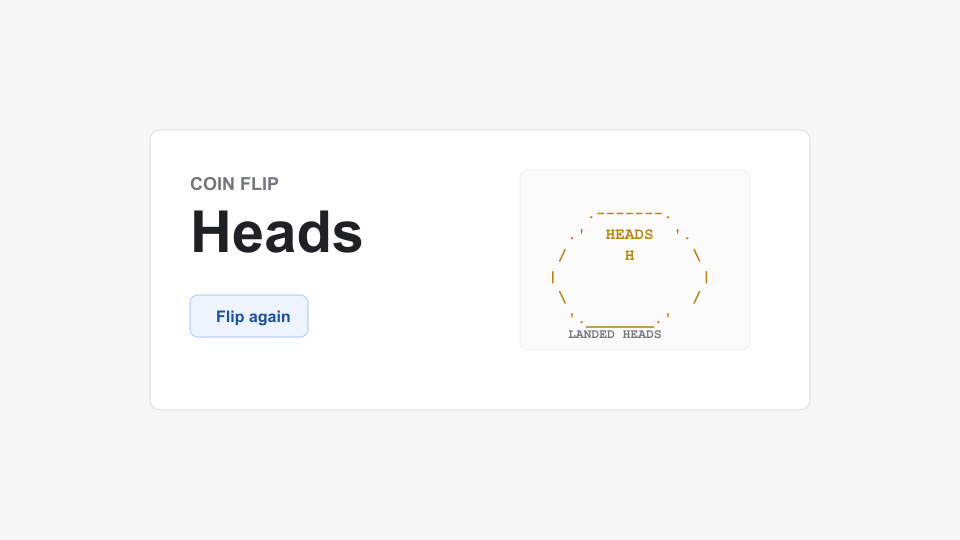
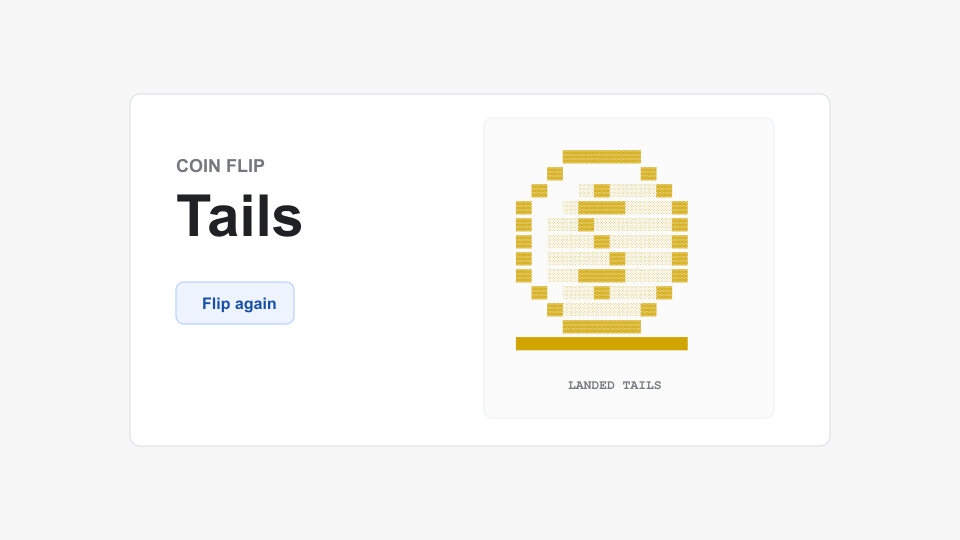
fix(plugins): improve coinflip ASCII art

diff --git a/plugins/coinflip-slot/script.js b/plugins/coinflip-slot/script.js
@@ -3,36 +3,60 @@
 
   const ART = {
     heads: [
-      "    .-------.    ",
-      "  .'  HEADS  '.  ",
-      " /      H      \\ ",
-      "|               |",
-      " \\             / ",
-      "  '._______.'  ",
+      "      ▓▓▓▓▓▓▓▓▓▓      ",
+      "    ▓▓          ▓▓    ",
+      "  ▓▓  ░░▓▓  ▓▓░░  ▓▓  ",
+      "▓▓    ░░▓▓  ▓▓░░    ▓▓",
+      "▓▓  ░░░░▓▓  ▓▓░░░░  ▓▓",
+      "▓▓  ░░░░▓▓▓▓▓▓░░░░  ▓▓",
+      "▓▓  ░░░░▓▓  ▓▓░░░░  ▓▓",
+      "▓▓  ░░░░▓▓  ▓▓░░░░  ▓▓",
+      "  ▓▓  ░░▓▓  ▓▓░░  ▓▓  ",
+      "    ▓▓░░      ░░▓▓    ",
+      "      ▓▓▓▓▓▓▓▓▓▓      ",
+      "██████████████████████",
     ].join("\n"),
     tails: [
-      "    .-------.    ",
-      "  .'  TAILS  '.  ",
-      " /      T      \\ ",
-      "|               |",
-      " \\             / ",
-      "  '._______.'  ",
+      "      ▓▓▓▓▓▓▓▓▓▓      ",
+      "    ▓▓          ▓▓    ",
+      "  ▓▓    ░░▓▓░░░░░░▓▓  ",
+      "▓▓    ░░▓▓▓▓▓▓░░░░░░▓▓",
+      "▓▓  ░░░░▓▓░░░░░░░░░░▓▓",
+      "▓▓  ░░░░░░▓▓░░░░░░░░▓▓",
+      "▓▓  ░░░░░░░░▓▓░░░░░░▓▓",
+      "▓▓  ░░░░▓▓▓▓▓▓░░░░░░▓▓",
+      "  ▓▓  ░░░░▓▓░░░░░░▓▓  ",
+      "    ▓▓░░░░░░░░░░▓▓    ",
+      "      ▓▓▓▓▓▓▓▓▓▓      ",
+      "██████████████████████",
     ].join("\n"),
     edge: [
-      "       ||       ",
-      "       ||       ",
-      "      /||\\      ",
-      "      \\||/      ",
-      "       ||       ",
-      "       ||       ",
+      "          ▓▓          ",
+      "          ▓▓          ",
+      "          ▓▓          ",
+      "          ██          ",
+      "          ██          ",
+      "          ██          ",
+      "          ██          ",
+      "          ██          ",
+      "          ▓▓          ",
+      "          ▓▓          ",
+      "          ▓▓          ",
+      "██████████████████████",
     ].join("\n"),
     thin: [
-      "        |       ",
-      "        |       ",
-      "        |       ",
-      "        |       ",
-      "        |       ",
-      "        |       ",
+      "           ░          ",
+      "           ▒          ",
+      "           ▓          ",
+      "           █          ",
+      "           █          ",
+      "           █          ",
+      "           █          ",
+      "           █          ",
+      "           ▓          ",
+      "           ▒          ",
+      "           ░          ",
+      "██████████████████████",
     ].join("\n"),
   };
 

diff --git a/plugins/coinflip-slot/index.js b/plugins/coinflip-slot/index.js
@@ -8,20 +8,32 @@ const QUERY_PATTERNS = [
 
 const COIN_ART = {
   heads: [
-    "    .-------.    ",
-    "  .'  HEADS  '.  ",
-    " /      H      \\ ",
-    "|               |",
-    " \\             / ",
-    "  '._______.'  ",
+    "      ▓▓▓▓▓▓▓▓▓▓      ",
+    "    ▓▓          ▓▓    ",
+    "  ▓▓  ░░▓▓  ▓▓░░  ▓▓  ",
+    "▓▓    ░░▓▓  ▓▓░░    ▓▓",
+    "▓▓  ░░░░▓▓  ▓▓░░░░  ▓▓",
+    "▓▓  ░░░░▓▓▓▓▓▓░░░░  ▓▓",
+    "▓▓  ░░░░▓▓  ▓▓░░░░  ▓▓",
+    "▓▓  ░░░░▓▓  ▓▓░░░░  ▓▓",
+    "  ▓▓  ░░▓▓  ▓▓░░  ▓▓  ",
+    "    ▓▓░░      ░░▓▓    ",
+    "      ▓▓▓▓▓▓▓▓▓▓      ",
+    "██████████████████████",
   ].join("\n"),
   tails: [
-    "    .-------.    ",
-    "  .'  TAILS  '.  ",
-    " /      T      \\ ",
-    "|               |",
-    " \\             / ",
-    "  '._______.'  ",
+    "      ▓▓▓▓▓▓▓▓▓▓      ",
+    "    ▓▓          ▓▓    ",
+    "  ▓▓    ░░▓▓░░░░░░▓▓  ",
+    "▓▓    ░░▓▓▓▓▓▓░░░░░░▓▓",
+    "▓▓  ░░░░▓▓░░░░░░░░░░▓▓",
+    "▓▓  ░░░░░░▓▓░░░░░░░░▓▓",
+    "▓▓  ░░░░░░░░▓▓░░░░░░▓▓",
+    "▓▓  ░░░░▓▓▓▓▓▓░░░░░░▓▓",
+    "  ▓▓  ░░░░▓▓░░░░░░▓▓  ",
+    "    ▓▓░░░░░░░░░░▓▓    ",
+    "      ▓▓▓▓▓▓▓▓▓▓      ",
+    "██████████████████████",
   ].join("\n"),
 };
 

diff --git a/plugins/coinflip-slot/style.css b/plugins/coinflip-slot/style.css
@@ -82,7 +82,7 @@
     display: grid;
     justify-items: center;
     gap: 8px;
-    min-width: 18ch;
+    min-width: 28ch;
     padding: 12px 14px;
     border-radius: 8px;
     background:
@@ -96,8 +96,8 @@
 
 .coinflip-slot__coin {
     margin: 0;
-    min-width: 18ch;
-    min-height: 6.9em;
+    min-width: 26ch;
+    min-height: 13.8em;
     color: color-mix(in srgb, var(--warning, #fbbc04) 72%, currentColor);
     font-family:
         ui-monospace,
@@ -107,7 +107,7 @@
         Consolas,
         "Liberation Mono",
         monospace;
-    font-size: 0.84rem;
+    font-size: 0.78rem;
     font-weight: 700;
     line-height: 1.15;
     text-align: left;
@@ -163,7 +163,7 @@
     }
 
     .coinflip-slot__coin {
-        font-size: 0.72rem;
+        font-size: 0.62rem;
     }
 
     .coinflip-slot__result {